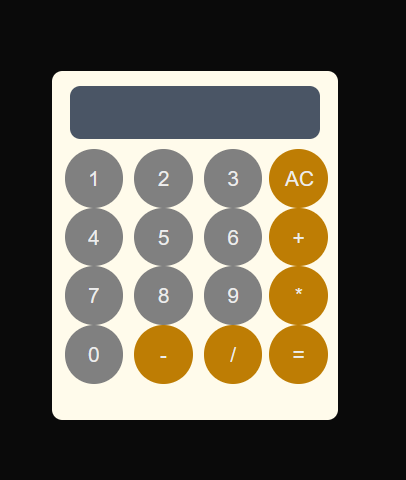
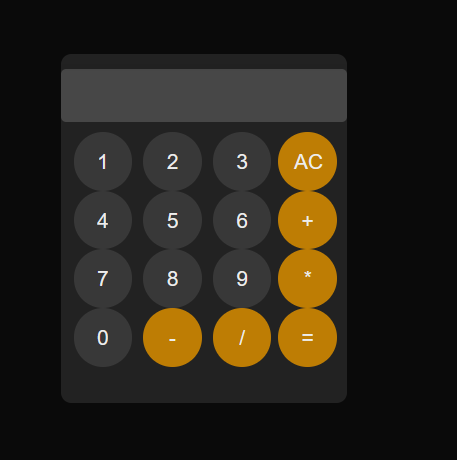
style: update button colors and input background for better visibility docs: fix image markdown syntax in README

diff --git a/calculator-react/app/page.tsx b/calculator-react/app/page.tsx
@@ -35,15 +35,15 @@ export default function Calculator() {
   return (
 
     <div className="flex min-h-screen justify-center items-center">
-      <div className=" relative rounded-lg bg-amber-50 h-67 w-55 ">
+      <div className=" relative rounded-lg  h-67 w-55  bg-[#222222] ">
           
-          <div className=" flex items-center justify-center rounded-lg mt-3 pointer-events-none h-10"> {/* Calculator div. */}
+          <div className="  flex items-center justify-center rounded-sm mt-3 pointer-events-none h-10 bg-[#474747]"> {/* Input div. */}
 
           <input 
            type="text" 
            value={Input} 
            readOnly 
-           className="w-52 h-12 text-right text-2xl p-5 rounded-lg bg-gray-800 text-white shadow-inner"
+           className=" h-12 text-2xl p-5 rounded-lg text-center text-white shadow-inner"
            />  
 
           </div>

diff --git a/calculator-react/app/globals.css b/calculator-react/app/globals.css
@@ -27,7 +27,7 @@ body {
 
 .boutonCalc {
   margin-left: 10px;
-  background-color: gray;
+  background-color: rgb(56, 56, 56);
   padding: 12px;
   padding-block: 5px;
   border-radius: 5rem;

diff --git a/readme.md b/readme.md
@@ -7,4 +7,4 @@ A calculator project I built from scratch using both vanilla JavaScript and the 
 
 I learned about DOM, function parsing objects in a Input, about boucle For, For each, i also learn about React how to handle proprely different type for function. 
 
-[calculatorimage](image.png)
+![calculatorimage](image.png)
